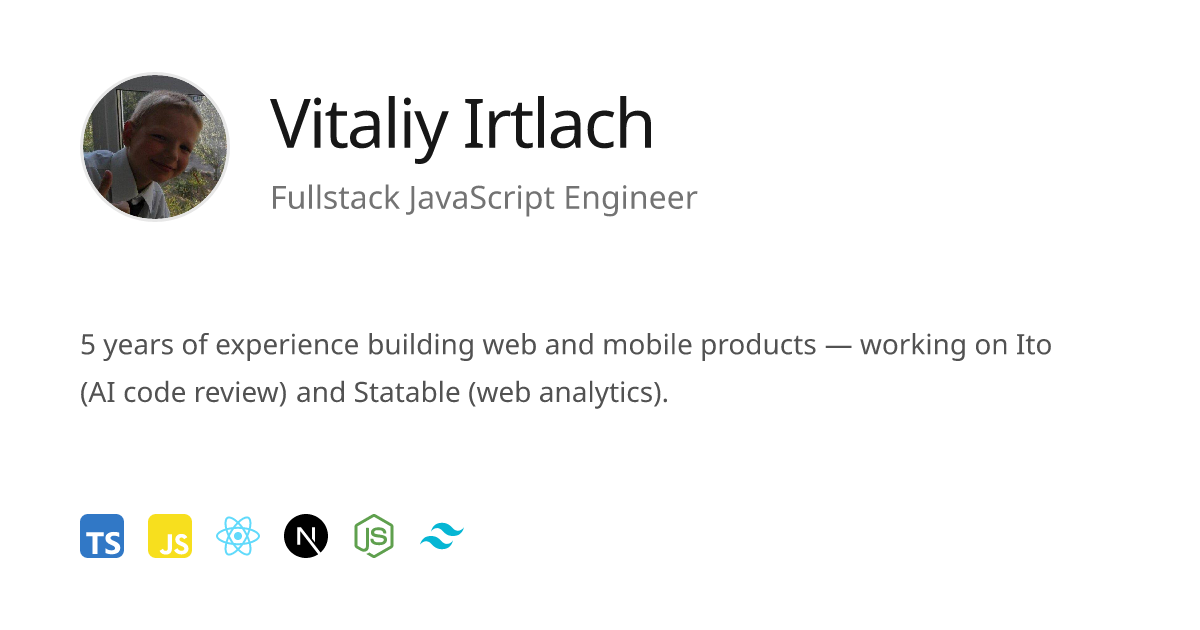
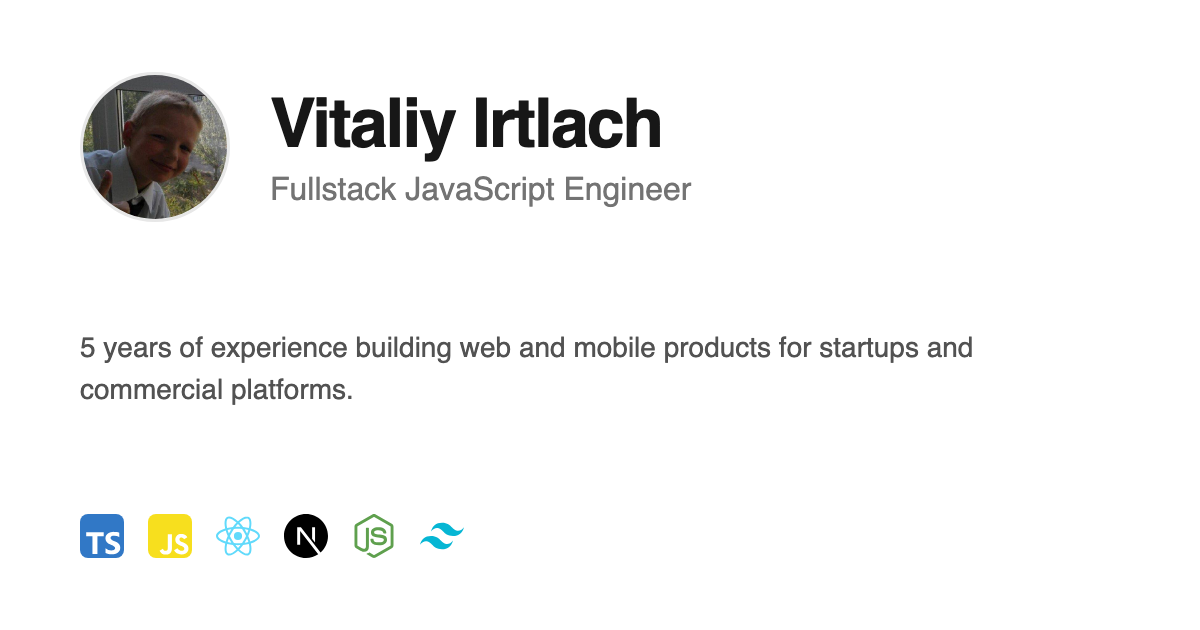
content: refresh the bio for current work
Ito wraps up this month, so the intro now leads with Statable and the
products I ship myself, with Ito and Jobbit moved to past tense; every
company and product in the text carries its logo.

Meta description and the resume summary say the same thing, and the OG
card is re-rendered with wording that will not go stale.

Changed region(s): [[0.2158, 0.1508, 0.5858, 0.3317], [0.0617, 0.5127, 0.8942, 0.573], [0.0617, 0.6032, 0.555, 0.6635]]

diff --git a/src/components/Hero.tsx b/src/components/Hero.tsx
@@ -138,15 +138,37 @@ export default function Hero() {
           platforms.
         </p>
         <p>
-          Right now I&apos;m working on{" "}
+          Right now I&apos;m building web analytics at{" "}
+          <ProjectLink href="https://statable.com" logo="/logos/statable.png">
+            Statable
+          </ProjectLink>{" "}
+          and shipping my own products —{" "}
+          <ProjectLink href="https://safetymap.online" logo="/logos/safetymap.png">
+            SafetyMap
+          </ProjectLink>
+          ,{" "}
+          <ProjectLink href="https://laikimap.online" logo="/logos/laikimap.png">
+            Laikimap
+          </ProjectLink>{" "}
+          and{" "}
+          <ProjectLink
+            href="https://simple-invoice.online"
+            logo="/logos/simple-invoice.png"
+          >
+            SimpleInvoice
+          </ProjectLink>
+          .
+        </p>
+        <p>
+          Before that I spent a year at{" "}
           <ProjectLink href="https://www.ito.ai/" logo="/logos/ito.png">
             Ito
           </ProjectLink>{" "}
-          — AI code review that runs your code — and building web analytics at{" "}
-          <ProjectLink href="https://statable.com" logo="/logos/statable.png">
-            Statable
-          </ProjectLink>
-          .
+          on AI code review that runs your code, and two years at{" "}
+          <ProjectLink href="https://jobbit.uk" logo="/logos/jobbit.jpg">
+            Jobbit
+          </ProjectLink>{" "}
+          building React Native apps.
         </p>
         <p>
           I&apos;m studying Computer Engineering at{" "}

diff --git a/src/pages/index.tsx b/src/pages/index.tsx
@@ -10,7 +10,7 @@ import { SITE_URL } from "@/data/profile";
 
 const TITLE = "Vitaliy Irtlach – Fullstack JavaScript Engineer";
 const DESCRIPTION =
-  "Fullstack JavaScript engineer with 5 years of experience building web and mobile products with TypeScript, React and Node.js. Working on Ito and Statable.";
+  "Fullstack JavaScript engineer in Athens with 5 years of experience building web and mobile products with TypeScript, React and Node.js. Building Statable, SafetyMap and Laikimap.";
 // Static file instead of an on-request OG route, so the site needs no
 // serverless/edge compute at all on Vercel.
 const OG_IMAGE = `${SITE_URL}/og.png`;

diff --git a/src/components/ResumeDoc.tsx b/src/components/ResumeDoc.tsx
@@ -41,8 +41,8 @@ const ResumeDoc = forwardRef<HTMLDivElement>(function ResumeDoc(_, ref) {
           <p className="text-[12.5px] leading-[19px] text-[#404040]">
             Fullstack JavaScript engineer with 5 years of experience building
             web and mobile products for startups and commercial platforms.
-            Currently working on Ito (AI code review that runs your code) and
-            building web analytics at Statable.
+            Currently building web analytics at Statable and shipping my own
+            products — SafetyMap, Laikimap and SimpleInvoice.
           </p>
         </section>
 
